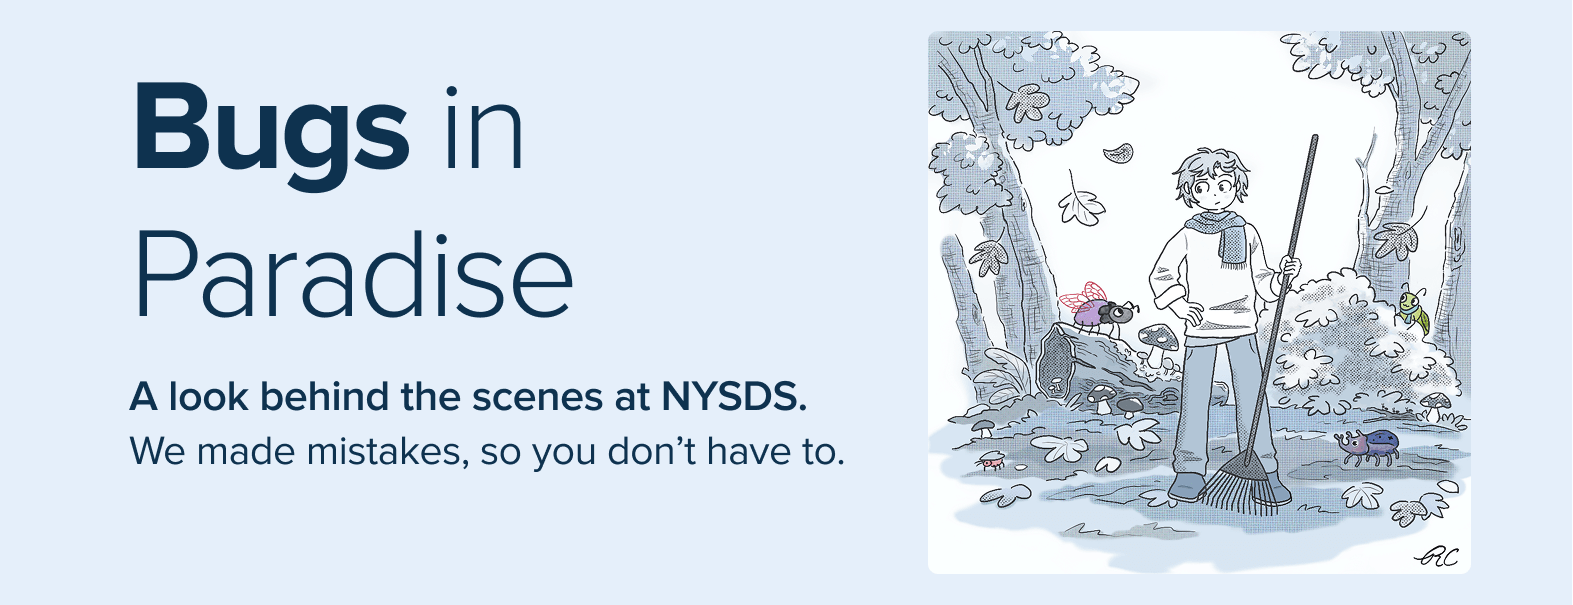
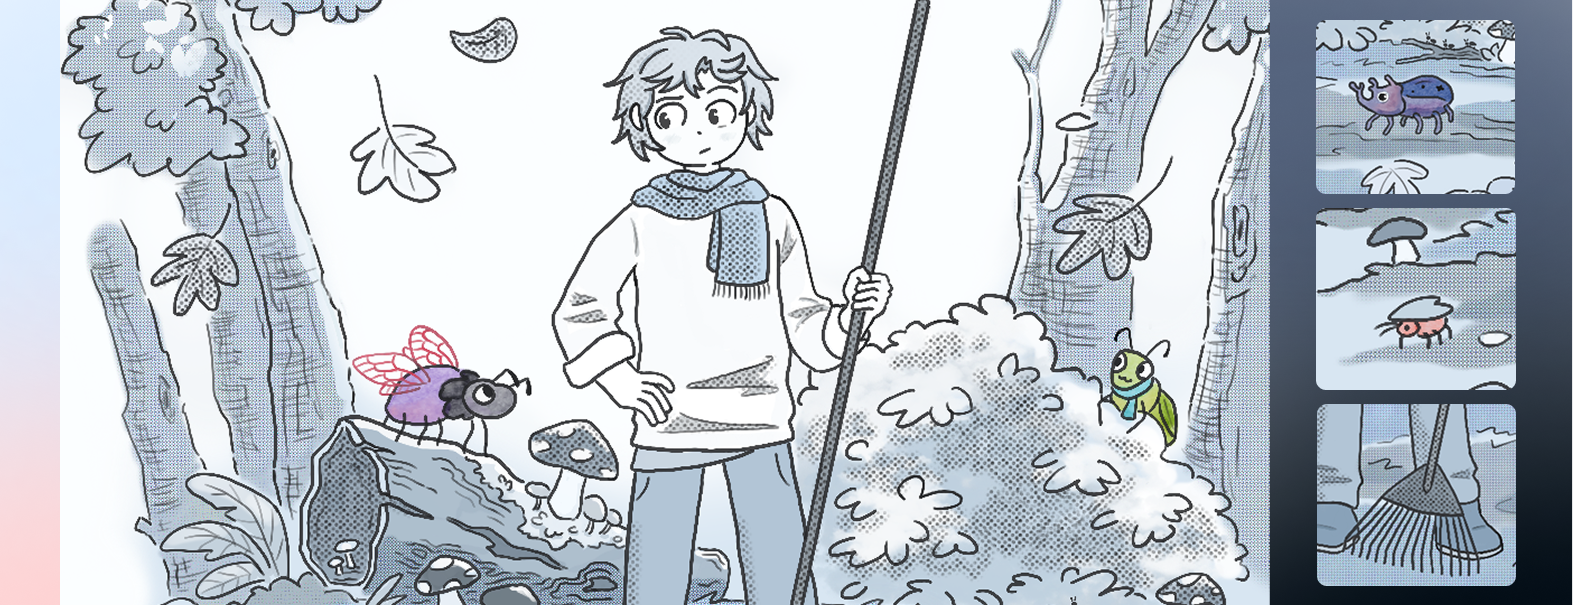
Add new image

diff --git a/src/content/updates/2026-09-29-shadowDOM-styling.md b/src/content/updates/2026-09-29-shadowDOM-styling.md
@@ -9,13 +9,10 @@ image_alt: Bugs around nature
 updatethumbnail: /assets/i/2026/shadow-dom-article/thumbnail.png
 ogimage: /assets/i/2026/shadow-dom-article/thumbnail.jpg
 thumbnailimage: /assets/i/2026/shadow-dom-article/thumbnail-alt.png
-date: 2026-10-11
+date: 2026-10-09
 tags: article, web components, shadow DOM, slots, CSS, design system
 ---
 
-<!-- <nys-alert type="info" heading="A note to readers">
-<p>Dear readers, my hope is that you can take something away from our trials and errors in adapting web components, styling slotted content, and the double-edged sword that is shadow DOM. Whether you're looking to build your own Design System or simply understand our process, I hope you find something useful here.</p>
-</nys-alert> -->
 <nys-alert type="info" heading="Quick crash course: DOM and shadow DOM" icon="edit_square">
 <span>The <a href="https://developer.mozilla.org/en-US/docs/Web/API/Document_Object_Model">DOM (Document Object Model)</a> is the browser's representation of an HTML page as a tree-like structure of connected nodes. The <a href="https://developer.mozilla.org/en-US/docs/Web/API/Web_components/Using_shadow_DOM">shadow DOM</a> creates a separate, encapsulated version of the DOM inside a component, allowing its structure and styles to be isolated from the rest of the page.</span>
 </nys-alert>

diff --git a/src/content/pages/foundations/accessibility/index.md b/src/content/pages/foundations/accessibility/index.md
@@ -15,7 +15,7 @@ navOrder: 2
     <div class="a11y-hero__stripe" aria-hidden="true">
       <span></span><span></span><span></span><span></span>
     </div>
-    <p class="a11y-hero__heading">Be an <strong>a11y.</strong></p>
+    <p class="a11y-hero__heading"><strong>Bugs</strong></p>
     <p class="a11y-hero__subheading">a11y is short for accessibility.</p>
     <p class="a11y-hero__caption">There are 11 letters between the a and y.</p>
   </div>
